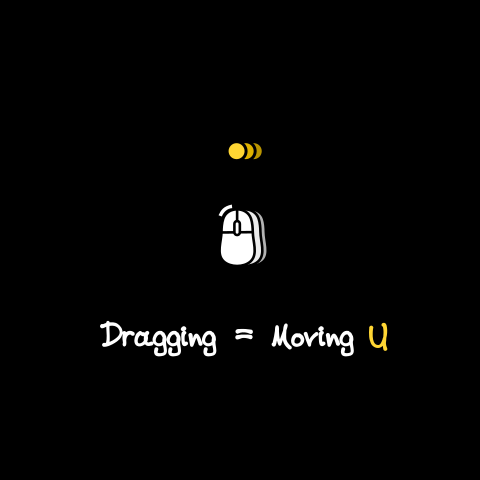
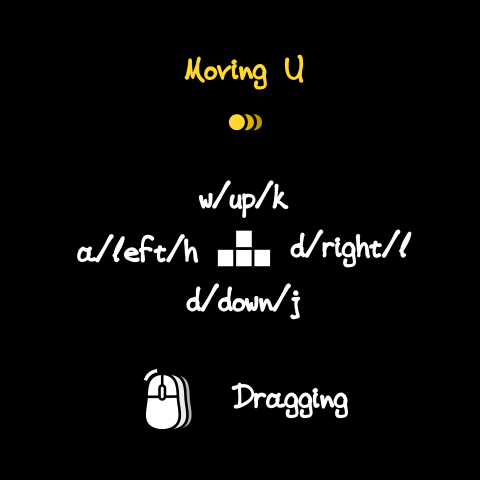
Support keyboard input

diff --git a/src/reactor/state/running.rs b/src/reactor/state/running.rs
@@ -14,7 +14,9 @@ impl Plugin for StatePlugin {
                 Update,
                 (
                     handle_pause_btn,
-                    control_u_particle,
+                    control_u_by_mouse,
+                    control_u_by_keyboard,
+                    pause_by_keyboard,
                     move_particle,
                     reactor::field::timer::update_field,
                     reactor::field::alpha_count::update_field,
@@ -166,7 +168,7 @@ fn move_particle(
     }
 }
 
-fn control_u_particle(
+fn control_u_by_mouse(
     mut panel_query: Query<&Interaction, (With<Interaction>, With<GameControlPanel>)>,
     mut u_particle_query: Query<(&mut Particle, &mut Transform), With<reactor::ControlParticle>>,
     mut mouse_motion_events: EventReader<input::mouse::MouseMotion>,
@@ -380,5 +382,56 @@ fn handle_particle_reaction(
                 commands.entity(entity).despawn_recursive();
             }
         }
+    }
+}
+
+const KEYBOARD_DELTA_BIAS: f32 = 1.5;
+
+fn control_u_by_keyboard(
+    keyboard_input: Res<Input<KeyCode>>,
+    mut u_particle_query: Query<(&mut Particle, &mut Transform), With<reactor::ControlParticle>>,
+    settings: Res<app::settings::Settings>,
+) {
+    let (mut u_particle, mut u_transform) = u_particle_query.get_single_mut().unwrap();
+    let mut delta: Vec2 = Vec2::default();
+    if keyboard_input.pressed(KeyCode::W)
+        || keyboard_input.pressed(KeyCode::Up)
+        || keyboard_input.pressed(KeyCode::K)
+    {
+        delta.y = -KEYBOARD_DELTA_BIAS;
+    }
+    if keyboard_input.pressed(KeyCode::S)
+        || keyboard_input.pressed(KeyCode::Down)
+        || keyboard_input.pressed(KeyCode::J)
+    {
+        delta.y = KEYBOARD_DELTA_BIAS;
+    }
+    if keyboard_input.pressed(KeyCode::A)
+        || keyboard_input.pressed(KeyCode::Left)
+        || keyboard_input.pressed(KeyCode::H)
+    {
+        delta.x = -KEYBOARD_DELTA_BIAS;
+    }
+    if keyboard_input.pressed(KeyCode::D)
+        || keyboard_input.pressed(KeyCode::Right)
+        || keyboard_input.pressed(KeyCode::L)
+    {
+        delta.x = KEYBOARD_DELTA_BIAS;
+    }
+    let new_pos = calculate_u_new_pos(u_particle.pos(), delta, settings.get_value("sensitivity"));
+    u_particle.jump(new_pos);
+    u_transform.translation.x = new_pos.x;
+    u_transform.translation.y = new_pos.y;
+}
+
+fn pause_by_keyboard(
+    keyboard_input: Res<Input<KeyCode>>,
+    mut reactor_state: ResMut<NextState<reactor::ReactorState>>,
+) {
+    if keyboard_input.pressed(KeyCode::Space)
+        || keyboard_input.pressed(KeyCode::Return)
+        || keyboard_input.pressed(KeyCode::Escape)
+    {
+        reactor_state.set(reactor::ReactorState::Paused)
     }
 }

diff --git a/src/page/settings.rs b/src/page/settings.rs
@@ -9,7 +9,12 @@ impl Plugin for PagePlugin {
         app.add_systems(OnEnter(app::GameState::Settings), page_setup)
             .add_systems(
                 Update,
-                (page_action, move_test_panel_action).run_if(in_state(app::GameState::Settings)),
+                (
+                    page_action,
+                    move_test_panel_action,
+                    control_test_ball_by_keyboard,
+                )
+                    .run_if(in_state(app::GameState::Settings)),
             )
             .add_systems(
                 OnExit(app::GameState::Settings),
@@ -605,4 +610,53 @@ fn calculate_test_ball_pos(current: (f32, f32), delta: Vec2, sensitivity: u8) ->
     let new_x = (current.0 + delta.x * delta_ratio).clamp(0., max_value);
     let new_y = (current.1 + delta.y * delta_ratio).clamp(0., max_value);
     return (new_x, new_y);
+}
+
+const KEYBOARD_DELTA_BIAS: f32 = 1.5;
+
+fn control_test_ball_by_keyboard(
+    keyboard_input: Res<Input<KeyCode>>,
+    panel_query: Query<(&Interaction, &Children), (With<Interaction>, With<MoveTestPanel>)>,
+    mut ball_query: Query<&mut Style, With<MoveTestBall>>,
+    settings: Res<app::settings::Settings>,
+) {
+    let mut delta: Vec2 = Vec2::default();
+    if keyboard_input.pressed(KeyCode::W)
+        || keyboard_input.pressed(KeyCode::Up)
+        || keyboard_input.pressed(KeyCode::K)
+    {
+        delta.y = -KEYBOARD_DELTA_BIAS;
+    }
+    if keyboard_input.pressed(KeyCode::S)
+        || keyboard_input.pressed(KeyCode::Down)
+        || keyboard_input.pressed(KeyCode::J)
+    {
+        delta.y = KEYBOARD_DELTA_BIAS;
+    }
+    if keyboard_input.pressed(KeyCode::A)
+        || keyboard_input.pressed(KeyCode::Left)
+        || keyboard_input.pressed(KeyCode::H)
+    {
+        delta.x = -KEYBOARD_DELTA_BIAS;
+    }
+    if keyboard_input.pressed(KeyCode::D)
+        || keyboard_input.pressed(KeyCode::Right)
+        || keyboard_input.pressed(KeyCode::L)
+    {
+        delta.x = KEYBOARD_DELTA_BIAS;
+    }
+    let (_, children) = panel_query.single();
+    let mut ball_style = ball_query.get_mut(children[0]).unwrap();
+    let ori_x: f32 = match ball_style.left {
+        Val::Px(value) => value,
+        _ => 0.,
+    };
+    let ori_y: f32 = match ball_style.top {
+        Val::Px(value) => value,
+        _ => 0.,
+    };
+
+    let new_pos = calculate_test_ball_pos((ori_x, ori_y), delta, settings.get_value("sensitivity"));
+    ball_style.left = Val::Px(new_pos.0);
+    ball_style.top = Val::Px(new_pos.1);
 }
